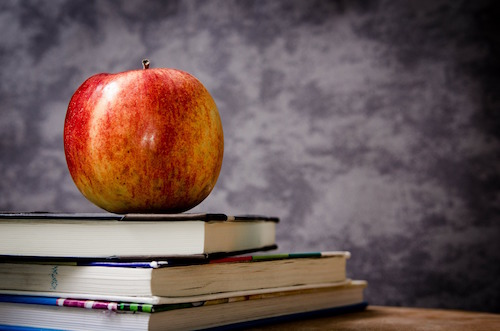
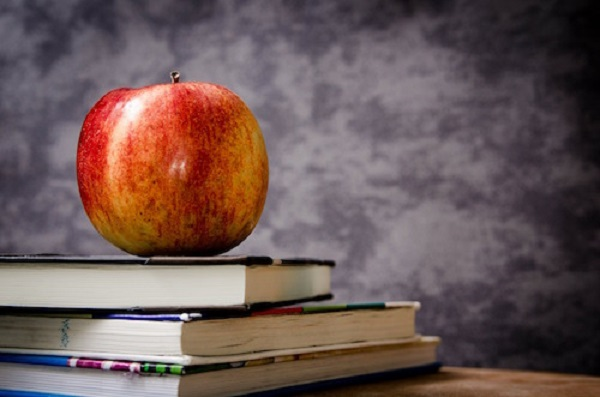
photo reformateren test

diff --git a/index.html b/index.html
@@ -3,18 +3,65 @@
 <head>
     <meta charset="UTF-8">
     <title>Burton Education website</title>
+    <link href="Burton%20style.css" rel="stylesheet" type="text/css">
 </head>
 <body>
 <header>
-<img src="img/burton_logo.png" alt="Burton logo">
+    <img src="img/burton_logo.png" alt="Burton logo">
 </header>
-<nav></nav>
-<section></section>
-<section></section>
+<nav>
+    <a href="">Over ons</a>
+    <a href="">Producten</a>
+    <a href="">Contact</a>
+</nav>
+<div class="wrapper">
+    <section class="apple">
+        <img src="img/appel.jpg" alt="appel">
+    </section>
+    <section class="img">
+        <img src="img/bus.jpg" alt="bus">
+        <img src="img/desk.jpg" alt="desk">
+        <img src="img/pythagoras.jpg" alt="pythagoras">
+    </section>
+</div>
 <section>
-    <article></article>
-    <article></article>
-    <article></article>
+    <article>
+        <p>Wat is Lorem Ipsum?
+            Lorem Ipsum is slechts een proeftekst uit het drukkerij- en zetterijwezen. Lorem Ipsum is de standaard
+            proeftekst in
+            deze bedrijfstak sinds de 16e eeuw, toen een onbekende drukker een zethaak met letters nam en ze door elkaar
+            husselde
+            om een font-catalogus te maken. Het heeft niet alleen vijf eeuwen overleefd maar is ook, vrijwel
+            onveranderd,
+            overgenomen in elektronische letterzetting. Het is in de jaren '60 populair geworden met de introductie van
+            Letraset
+            vellen met Lorem Ipsum passages en meer recentelijk door desktop publishing software zoals Aldus PageMaker
+            die versies
+            van Lorem Ipsum bevatten.</p>
+    </article>
+    <article>
+        <p>Waarom gebruiken we het?
+            Het is al geruime tijd een bekend gegeven dat een lezer, tijdens het bekijken van de layout van een pagina,
+            afgeleid
+            wordt door de tekstuele inhoud. </p>
+        <img src="img/football.jpg" alt="football">
+    </article>
+    <article>
+        <p>Waar komt het vandaan?
+            In tegenstelling tot wat algemeen aangenomen wordt is Lorem Ipsum niet zomaar willekeurige tekst. het heeft
+            zijn wortels
+            in een stuk klassieke latijnse literatuur uit 45 v.Chr. en is dus meer dan 2000 jaar oud. Richard
+            McClintock, een professor
+            latijn aan de Hampden-Sydney College in Virginia, heeft één van de meer obscure latijnse woorden,
+            consectetur, uit een
+            Lorem Ipsum passage opgezocht, en heeft tijdens het zoeken naar het woord in de klassieke literatuur de
+            onverdachte bron
+            ontdekt. Lorem Ipsum komt uit de secties 1.10.32 en 1.10.33 van "de Finibus Bonorum et Malorum" (De
+            uitersten van goed
+            en kwaad) door Cicero, geschreven in 45 v.Chr. Dit boek is een verhandeling over de theorie der ethiek, erg
+            populair
+            tijdens de renaissance.</p>
+    </article>
 </section>
 </body>
 </html>

diff --git a/Burton style.css b/Burton style.css
@@ -1,0 +1,25 @@
+header{padding: 20px;
+}
+body{
+    margin:auto;
+    width:100%;
+}
+section.img{
+    width: 490%;
+    padding: 20px;
+}
+section.img img{
+    display: block;
+}
+section.apple {
+    float: left;
+    padding: 20px;
+    width: 50%;
+}
+nav{
+    padding: 20px;
+}
+div.wrapper{
+    width: 100%;
+    margin: auto;
+}
